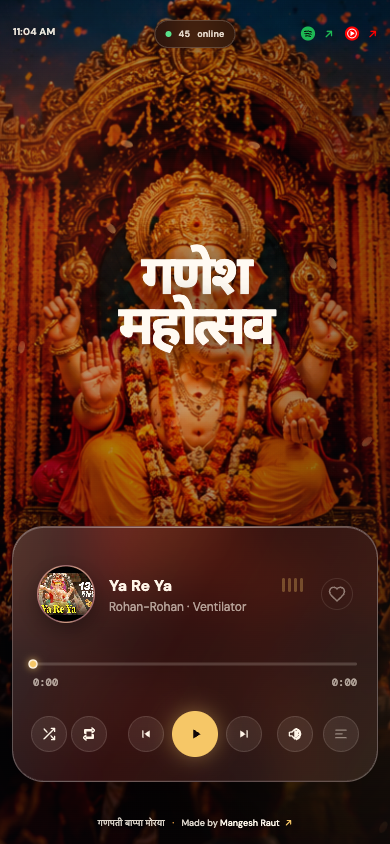
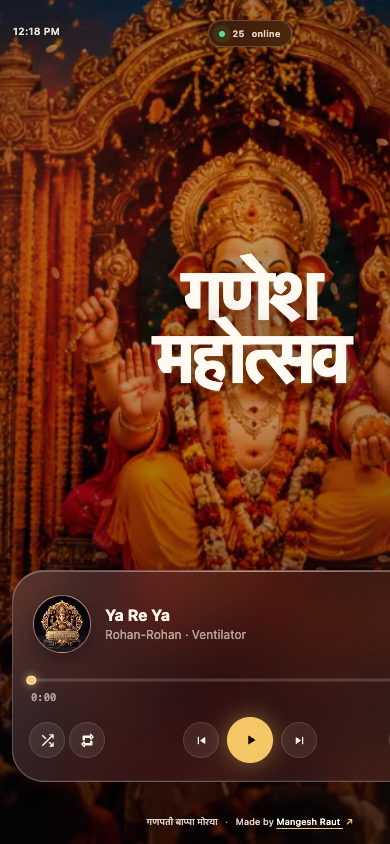
Optimize Lighthouse delivery and player spacing

diff --git a/index.html b/index.html
@@ -18,12 +18,14 @@
   <meta name="twitter:description" content="Marathi festival nostalgia, dhol-tasha energy, and one beautifully simple radio screen." />
   <meta name="twitter:image" content="https://ganeshai.vercel.app/ganesh%20background.png" />
   <title>GaneshAI · Ganeshotsav Radio · गणपती बाप्पा मोरया</title>
-  <link rel="preconnect" href="https://fonts.googleapis.com" />
-  <link rel="preconnect" href="https://fonts.gstatic.com" crossorigin />
-  <link href="https://fonts.googleapis.com/css2?family=DM+Mono:wght@400;500&family=DM+Sans:wght@400;500;600;700&family=Libre+Baskerville:wght@400;700&family=Noto+Sans+Devanagari:wght@500;700;800&family=Yatra+One&display=swap" rel="stylesheet" />
-  <link rel="icon" type="image/png" href="ganesh%20logo.png" />
-  <link rel="apple-touch-icon" href="ganesh%20logo.png" />
-  <link rel="stylesheet" href="styles.css" />
+  <link rel="preload" href="ganesh-background-mobile.webp" as="image" type="image/webp" fetchpriority="high" media="(max-width: 560px)" />
+  <link rel="preload" href="ganesh-background.webp" as="image" type="image/webp" fetchpriority="high" media="(min-width: 561px)" />
+  <link rel="icon" type="image/png" sizes="48x48" href="favicon.png" />
+  <link rel="apple-touch-icon" sizes="192x192" href="icon-192.png" />
+  <style>:root{--ink:#100607;--ink-soft:#1c0a0d;--wine:#361017;--saffron:#f1a343;--marigold:#f6c767;--rose:#df715e;--cream:#fff5e8;--muted:rgba(255, 245, 232, 0.62);--faint:rgba(255, 245, 232, 0.38);--line:rgba(255, 245, 232, 0.16);--glass:rgba(16, 6, 8, 0.48);--display:Georgia,"Times New Roman",serif;--sans:system-ui,-apple-system,BlinkMacSystemFont,"Segoe UI",sans-serif;--mono:ui-monospace,"SFMono-Regular",Consolas,monospace;--dev:"Noto Sans Devanagari","Kohinoor Devanagari",Mangal,var(--sans);--ease:cubic-bezier(0.22, 1, 0.36, 1)}*,::after,::before{box-sizing:border-box}body,html{min-height:100%;margin:0}html{background:var(--ink)}body{position:relative;isolation:isolate;min-height:100dvh;overflow-x:hidden;color:var(--cream);background:var(--ink);font-family:var(--sans)}a,button{color:inherit;font:inherit}button{border:0}a{text-decoration:none}img{display:block;max-width:100%}.cover,.scrub,a,button{touch-action:manipulation}[hidden]{display:none!important}.backdrop,.backdrop>*{position:fixed;inset:0}.backdrop{z-index:-1;overflow:hidden;background:radial-gradient(60% 60%at 50% 28%,rgba(163,55,36,.75),transparent 72%),linear-gradient(145deg,#3b121a 0,#1a080d 55%,#080304 100%)}.backdrop-photo{inset:-4%;background-image:url(ganesh-background.webp);background-position:center 41%;background-size:cover;filter:saturate(1.14) contrast(1.06);opacity:.72;transform:scale(1.04);animation:18s ease-in-out infinite alternate photo-breathe}@keyframes photo-breathe{from{transform:scale(1.04) translate3d(0,0,0)}to{transform:scale(1.08) translate3d(0,-.5%,0)}}.backdrop-wash{background:linear-gradient(180deg,rgba(7,2,3,.68) 0,rgba(15,4,6,.08) 30%,rgba(8,2,4,.64) 100%),linear-gradient(90deg,rgba(12,3,6,.72) 0,rgba(85,19,20,.08) 44%,rgba(7,2,3,.78) 100%)}.backdrop-glow{inset:auto;width:min(42vw,620px);height:min(42vw,620px);border-radius:50%;filter:blur(80px);opacity:.36;animation:glow-drift 14s var(--ease) infinite alternate}.glow-left{top:12%;left:-14%;background:#d7522d}.glow-right{right:-16%;bottom:4%;background:#f0a03a;opacity:.2;animation-delay:-6s}.backdrop-rays{inset:-20%;background:repeating-conic-gradient(from 2deg at 50% 42%,rgba(255,210,120,.045) 0deg 7deg,transparent 7deg 16deg);mask-image:radial-gradient(ellipse at 50% 42%,#000 0%,transparent 58%);opacity:.82;animation:130s linear infinite rays-turn}@keyframes rays-turn{to{transform:rotate(360deg)}}.grain{opacity:.12;background:repeating-linear-gradient(0deg,rgba(255,255,255,.05)0 1px,transparent 1px 4px),repeating-linear-gradient(90deg,rgba(0,0,0,.08)0 1px,transparent 1px 5px);mix-blend-mode:soft-light}.petals{overflow:hidden}.footer,.stage,.topbar{position:relative;z-index:1}.topbar{display:grid;grid-template-columns:1fr auto 1fr;align-items:start;width:100%;max-width:1440px;margin:0 auto;padding:max(24px,env(safe-area-inset-top)) clamp(18px,4vw,56px) 0}.presence{display:inline-flex;align-items:center;gap:7px;padding:7px 12px;border:1px solid rgba(255,245,232,.15);border-radius:999px;background:rgba(8,2,4,.35);box-shadow:0 8px 24px rgba(0,0,0,.14);backdrop-filter:blur(16px);color:rgba(255,245,232,.86);font-size:10px;font-weight:600;letter-spacing:.02em;white-space:nowrap}.presence-dot{flex:0 0 auto;border-radius:50%;background:#59e18b}.presence-dot{width:6px;height:6px;box-shadow:0 0 0 0 rgba(89,225,139,.55);animation:2.2s ease-out infinite online-pulse}@keyframes online-pulse{70%{box-shadow:0 0 0 7px rgba(89,225,139,0)}100%{box-shadow:0 0 0 0 rgba(89,225,139,0)}}.stage{display:flex;min-height:100dvh;flex-direction:column;align-items:center;justify-content:space-between;width:100%;padding:clamp(104px,13vh,152px) 18px calc(88px + env(safe-area-inset-bottom));gap:clamp(26px,5vh,64px)}.hero{display:flex;max-width:860px;flex:1 1 auto;flex-direction:column;align-items:center;justify-content:center;min-height:300px;padding-top:clamp(12px,2vh,30px);text-align:center}.hero-title{display:flex;flex-direction:column;align-items:center;margin:0;line-height:.82;text-shadow:0 8px 36px rgba(0,0,0,.44)}.player-zone{width:min(100%,640px);margin:0 auto;flex:0 0 auto}.player{position:relative;display:flex;flex-direction:column;gap:8px;padding:14px 20px 16px;overflow:hidden;border:1px solid rgba(255,245,232,.22);border-radius:24px;background:rgba(18,7,9,.8);box-shadow:0 24px 70px rgba(0,0,0,.55),inset 0 1px 0 rgba(255,245,232,.2);backdrop-filter:blur(24px) saturate(135%)}.player-topline{position:absolute;top:0;left:10%;width:80%;height:1px;background:linear-gradient(90deg,transparent,rgba(255,245,232,.44),transparent)}.player-main{display:flex;align-items:center;gap:16px;width:100%}.cover-shell{position:relative;width:54px;height:54px;flex:0 0 auto}.cover-halo{position:absolute;inset:-6px;border:1px solid rgba(246,199,103,.35);border-radius:50%;opacity:.8;transform:rotate(32deg)}.cover-halo::after{position:absolute;top:-2px;left:50%;width:4px;height:4px;border-radius:50%;background:var(--saffron);box-shadow:0 0 8px var(--saffron);content:""}.cover{position:relative;z-index:1;width:54px;height:54px;object-fit:cover;border:1.5px solid rgba(255,245,232,.3);border-radius:50%;background:radial-gradient(circle at 50% 35%,#f4bc63,#7a1e22 72%,#1b080b);box-shadow:0 4px 14px rgba(0,0,0,.45)}.track-info{flex:1;min-width:0;display:flex;flex-direction:column;gap:3px}.title-row{display:flex;align-items:center;gap:8px}.title-row .title{font-size:clamp(15px,1.8vw,17px);font-weight:700;color:var(--cream);margin:0;overflow:hidden;text-overflow:ellipsis;white-space:nowrap}.track-info .artist{font-size:12px;color:var(--muted);margin:0;overflow:hidden;text-overflow:ellipsis;white-space:nowrap}.fav-btn{display:grid;place-items:center;width:36px;height:36px;flex:0 0 auto;border-radius:50%;background:rgba(255,245,232,.06);border:1px solid rgba(255,245,232,.1);color:rgba(255,245,232,.5)}.fav-btn svg{width:18px;height:18px}.progress-block{width:100%;display:flex;flex-direction:column;gap:4px}.scrub{position:relative;display:block;width:100%;height:14px;padding:5px 0;outline:0;background:0 0}.scrub .track{position:absolute;top:50%;right:0;left:0;height:3px;overflow:visible;border-radius:99px;background:rgba(255,245,232,.18);transform:translateY(-50%)}.fill{display:block;width:0;height:100%;border-radius:inherit;background:linear-gradient(90deg,var(--saffron),var(--marigold));box-shadow:0 0 10px rgba(241,163,67,.5)}.knob{position:absolute;top:50%;left:0;width:9.5px;height:9.5px;border:1.5px solid rgba(255,245,232,.92);border-radius:50%;background:var(--marigold);box-shadow:0 0 8px rgba(246,199,103,.85);transform:translate(-50%,-50%)}.times{display:flex;justify-content:space-between;color:var(--muted);font-family:var(--mono);font-size:10.5px;font-weight:500}.controls{display:flex;align-items:center;justify-content:space-between;width:100%;margin-top:4px}.control-cluster{display:flex;align-items:center;gap:8px}.control-cluster-left{flex:1;justify-content:flex-start}.control-cluster-right{flex:1;justify-content:flex-end;gap:8px}.ctrl{width:36px;height:36px;border-radius:50%;background:rgba(255,245,232,.08);border:1px solid rgba(255,245,232,.12);color:var(--cream);display:grid;place-items:center}.ctrl svg{display:block;width:15px;height:15px;fill:currentColor}.ctrl-quiet svg{fill:none;stroke:currentColor;stroke-linecap:round;stroke-linejoin:round;stroke-width:2.2}.ctrl-play{width:46px;height:46px;background:var(--marigold);border:none;color:var(--ink);box-shadow:0 0 22px rgba(246,199,103,.45)}.ctrl-play svg{width:16px;height:16px}.ctrl-play .icon-play{transform:translateX(1px)}.ctrl-play .icon-pause{display:none}.queue{max-height:min(38vh,300px);margin-top:10px;overflow:auto;border:1px solid rgba(255,245,232,.14);border-radius:20px;background:rgba(12,3,5,.54);box-shadow:0 18px 42px rgba(0,0,0,.28);backdrop-filter:blur(22px) saturate(130%);scrollbar-color:rgba(255,245,232,0.2) transparent;scrollbar-width:thin}.queue-head{display:flex;align-items:end;justify-content:space-between;gap:16px;padding:16px 18px 10px}.queue-head h3{margin:3px 0 0;color:var(--cream);font-family:var(--display);font-size:14px;font-weight:400}.queue-kicker{color:var(--saffron);font-family:var(--mono);font-size:8px;letter-spacing:.12em;text-transform:uppercase}#queueCount{color:var(--faint);font-family:var(--mono);font-size:8px;white-space:nowrap}.queue-list{display:grid;grid-template-columns:repeat(2,minmax(0,1fr));gap:4px;margin:0;padding:0 10px 12px;list-style:none}.footer{position:fixed;right:0;bottom:max(14px,env(safe-area-inset-bottom));left:0;display:flex;align-items:center;justify-content:space-between;gap:16px;width:100%;padding:0 clamp(18px,4vw,56px)}.footer p{margin:0;color:rgba(255,245,232,.52);font-size:10px;font-weight:500}.footer strong{color:rgba(255,245,232,.85);font-weight:700}.footer-mantra{font-family:var(--dev);text-align:right}.footer-mantra span{display:inline-block;margin:0 5px;color:var(--saffron)}.yt-host{position:fixed;top:-2px;left:-2px;z-index:-2;width:1px;height:1px;overflow:hidden;opacity:0}.toast{position:fixed;right:50%;bottom:max(58px,calc(48px + env(safe-area-inset-bottom)));z-index:5;max-width:min(calc(100vw - 36px),420px);padding:9px 13px;border:1px solid rgba(255,245,232,.18);border-radius:999px;background:rgba(18,5,8,.82);box-shadow:0 10px 24px rgba(0,0,0,.32);color:var(--cream);font-size:10px;opacity:0;transform:translate(50%,8px);backdrop-filter:blur(14px);white-space:nowrap}@media (max-width:760px){.topbar{grid-template-columns:1fr auto}.presence{justify-self:end}.stage{padding-top:100px}.hero{min-height:270px}.player-main{gap:12px}.queue-list{grid-template-columns:1fr}}@media (max-width:560px){.topbar{padding-right:16px;padding-left:16px}.hero{min-height:240px;padding-top:16px}.player{border-radius:21px}.player-main{grid-template-columns:auto minmax(0,1fr);gap:10px 12px;padding:14px 13px 13px}.controls{display:grid;grid-column:1/-1;grid-template-columns:minmax(0,1fr) auto minmax(0,1fr);justify-content:normal;width:100%;gap:10px;padding-top:1px}.control-cluster{display:flex;align-items:center;gap:4px}.ctrl{width:36px;height:36px}.ctrl-play{width:44px;height:44px}.footer{bottom:max(10px,env(safe-area-inset-bottom));padding-right:14px;padding-left:14px}.footer p{font-size:8px}.footer-note{display:none}.footer-mantra{width:100%;text-align:center}.toast{bottom:max(88px,calc(80px + env(safe-area-inset-bottom)))}}@media (prefers-reduced-motion:reduce){*,::after,::before{scroll-behavior:auto!important;animation-duration:0s!important;animation-iteration-count:1!important}}:root{--display:var(--dev)}body{background:#101722}.backdrop-photo{background-image:url(ganesh-background.webp);background-size:cover;background-position:center center;filter:saturate(1.08) contrast(1.04) brightness(.78);opacity:1}.backdrop-wash{background:linear-gradient(180deg,rgba(4,11,19,.26) 0,rgba(19,4,7,.02) 42%,rgba(7,3,6,.58) 100%),linear-gradient(90deg,rgba(5,10,18,.22) 0,rgba(75,19,15,.01) 48%,rgba(5,7,13,.34) 100%)}.backdrop-rays{opacity:.28}.topbar{position:fixed;top:0;right:0;left:0;z-index:3;grid-template-columns:1fr auto 1fr;max-width:none;padding:max(20px,env(safe-area-inset-top)) clamp(18px,3vw,46px) 0}.clock,.source-link{color:rgba(255,248,236,.9);font-size:clamp(11px,1.15vw,17px);font-weight:600;text-shadow:0 2px 10px rgba(0,0,0,.38)}.source-links{display:inline-flex;align-items:center;justify-self:end;gap:clamp(10px,1.8vw,26px)}.clock{justify-self:start;padding-top:8px;letter-spacing:.02em}.source-link{display:inline-flex;align-items:center;gap:8px;padding-top:8px}.source-icon{width:1.15em;height:1.15em;flex:0 0 auto;fill:none;stroke:currentColor;stroke-linecap:round;stroke-linejoin:round;stroke-width:1.8}.source-icon-youtube path{fill:currentColor;stroke:none}.source-arrow,.source-label{color:var(--marigold);font-size:1.1em}.source-label{color:rgba(255,248,236,.9)}.presence{padding:8px 13px;border-color:rgba(255,245,232,.2);background:rgba(8,8,14,.42);font-size:11px}.stage{min-height:100dvh;padding:clamp(86px,9vh,126px) 18px calc(66px + env(safe-area-inset-bottom));gap:0}.hero{width:min(100%,1240px);min-height:0;justify-content:center;padding:clamp(18px,5vh,60px) 0 clamp(20px,4vh,44px)}.hero-title{position:relative;width:min(100%,900px);height:auto;overflow:visible;clip:auto;clip-path:none;line-height:.86;text-shadow:none;white-space:normal}.sr-only{position:absolute;width:1px;height:1px;padding:0;margin:-1px;overflow:hidden;clip:rect(0,0,0,0);white-space:nowrap;border:0}.hero-title-marathi{display:block;color:#fffaf2;font-family:var(--dev);font-size:clamp(4.5rem,10vw,10rem);font-weight:800;letter-spacing:-.085em;line-height:.86;text-shadow:0 8px 34px rgba(0,0,0,.62),0 1px 0 rgba(255,255,255,.12)}.player-zone{width:min(100%,720px);margin:0 auto}.player{border-color:rgba(255,224,202,.27);border-radius:26px;background:rgba(68,28,27,.72);box-shadow:0 18px 52px rgba(0,0,0,.42),inset 0 1px 0 rgba(255,244,231,.18);backdrop-filter:blur(18px) saturate(135%)}.player-main{grid-template-columns:auto minmax(0,1fr) auto;gap:16px;min-height:96px;padding:14px 22px}.cover-halo{display:none}.cover,.cover-shell{width:54px;height:54px}.cover{border-color:rgba(255,255,255,.35);box-shadow:0 5px 18px rgba(0,0,0,.42),inset 0 0 0 3px rgba(0,0,0,.18)}.title{font-size:clamp(13px,1.45vw,18px)}.artist{font-size:clamp(10px,1vw,13px)}.progress-block{margin-top:9px}.controls{gap:3px}.ctrl-link{color:rgba(255,245,232,.45)}.ctrl-play{width:42px;height:42px}.footer{bottom:max(15px,env(safe-area-inset-bottom))}.footer p{color:rgba(255,248,236,.84);font-size:clamp(9px,.85vw,13px);text-shadow:0 2px 10px rgba(0,0,0,.46)}.footer-mantra{font-family:var(--sans)}.footer .maker-link{position:relative;z-index:1;color:#fff8ec;text-decoration:underline;text-decoration-color:var(--marigold);text-decoration-thickness:1px;text-underline-offset:3px}.footer .maker-link span{display:inline-block;margin:0 0 0 3px;color:var(--marigold)}@media (max-width:760px){.topbar{grid-template-columns:1fr auto 1fr}.stage{padding-top:88px}.hero{padding-top:18px}.player-main{gap:12px;padding-right:17px;padding-left:17px}}@media (max-width:560px){.backdrop-photo{background-image:url(ganesh-background.webp);background-size:cover;background-position:center center}.backdrop-wash{background:linear-gradient(180deg,rgba(4,11,19,.22) 0,rgba(19,4,7,.02) 42%,rgba(7,3,6,.58) 100%),linear-gradient(90deg,rgba(5,10,18,.22) 0,rgba(75,19,15,.01) 48%,rgba(5,7,13,.34) 100%)}.topbar{padding-right:13px;padding-left:13px}.clock,.source-link{padding-top:5px;font-size:10px}.source-links{gap:10px}.source-label{display:none}.source-icon{width:17px;height:17px}.presence{padding:7px 10px;font-size:9px}.stage{padding:80px 12px calc(62px + env(safe-area-inset-bottom))}.hero{padding-top:10px;padding-bottom:26px}.hero-title{line-height:.82}.hero-title{width:min(100%,370px)}.hero-title-marathi{font-size:clamp(3.2rem,17vw,5rem);letter-spacing:-.075em;line-height:.88}.player{border-radius:22px}.player-main{grid-template-columns:auto minmax(0,1fr);gap:10px 12px;padding:13px 14px 14px}.controls{grid-column:1/-1;justify-content:center;gap:4px;padding-top:1px}.ctrl{width:34px;height:34px}.ctrl-play{width:42px;height:42px}.footer-note{display:none}.footer-mantra{width:100%;text-align:center}}.backdrop-photo{background-position:center 44%;filter:saturate(1.08) contrast(1.04) brightness(.84)}.source-link{font-size:clamp(10px,.92vw,14px)}.source-link-spotify{color:#1db954}.source-link-youtube{color:red}.source-link .source-arrow,.source-link .source-label{color:currentColor}.source-icon-spotify .source-icon-circle{fill:#1db954;stroke:none}.source-icon-spotify .source-icon-wave{fill:none;stroke:#07140c;stroke-width:1.55}.source-icon-youtube .source-icon-circle{fill:#ff0000;stroke:none}.source-icon-youtube .source-icon-ring{fill:none;stroke:#ffffff;stroke-width:1.45}.source-icon-youtube .source-icon-play{fill:#ffffff;stroke:none}.hero{padding-bottom:clamp(26px,5vh,56px)}.hero-title{width:min(100%,760px);transform:translateY(1vh)}.hero-title-marathi{font-size:clamp(3.2rem,7.5vw,7rem);font-weight:700;letter-spacing:-.08em;line-height:.9}.player-zone{width:min(100%,640px)}.player{border-color:rgba(255,255,255,.25);border-radius:38px;background:linear-gradient(120deg,rgba(255,255,255,.16),rgba(62,26,30,.42) 45%,rgba(255,255,255,.08)),rgba(24,12,17,.3);box-shadow:0 24px 70px rgba(0,0,0,.38),inset 0 1px 0 rgba(255,255,255,.24),inset 0-1px 0 rgba(255,255,255,.06);backdrop-filter:blur(28px) saturate(145%)}.player-main{gap:13px;min-height:88px;padding:10px 16px}.cover,.cover-shell{width:50px;height:50px}.cover{box-shadow:0 8px 22px rgba(0,0,0,.38),inset 0 0 0 3px rgba(0,0,0,.16)}.title{font-size:clamp(12px,1.05vw,16px)}.artist{font-size:clamp(9px,.8vw,12px)}.controls{gap:1px}.ctrl{width:30px;height:30px}.ctrl-play{width:38px;height:38px}.queue{margin-top:12px;border-color:rgba(255,255,255,.22);border-radius:30px;background:linear-gradient(135deg,rgba(255,255,255,.12),rgba(32,15,20,.36)),rgba(12,8,13,.28);box-shadow:0 22px 60px rgba(0,0,0,.34),inset 0 1px 0 rgba(255,255,255,.16);backdrop-filter:blur(28px) saturate(145%)}@media (max-width:560px){.backdrop-photo{background-position:center 42%}.hero{padding-bottom:30px}.hero-title{width:min(100%,340px);transform:translateY(1.5vh)}.hero-title-marathi{font-size:clamp(2.6rem,14vw,4.3rem);letter-spacing:-.07em;line-height:.92}.player-zone{width:100%}.player{border-radius:30px}.player-main{gap:10px 12px;min-height:0;padding:12px 14px 13px}.cover,.cover-shell{width:48px;height:48px}.ctrl{width:32px;height:32px}.ctrl-play{width:42px;height:42px}}.title-row{display:flex;align-items:center;gap:10px}.title-row .title{flex:1;min-width:0;margin:0;overflow:hidden;text-overflow:ellipsis;white-space:nowrap}.fav-btn{display:grid;place-items:center;width:32px;height:32px;padding:0;border-radius:50%;background:0 0;color:rgba(255,245,232,.45)}.fav-btn svg{width:18px;height:18px;fill:none;stroke:currentColor;stroke-width:2}.equalizer{display:inline-flex;align-items:flex-end;gap:3px;height:14px;padding:0 4px}.eq-bar{width:3px;height:100%;border-radius:2px;background:var(--marigold);opacity:.3}#repeat{position:relative}.repeat-badge{position:absolute;top:-2px;right:-2px;width:13px;height:13px;border-radius:50%;background:var(--saffron);color:var(--ink);font-size:9px;font-weight:700;line-height:13px;text-align:center}.volume-control{display:inline-flex;align-items:center;gap:6px}.volume-control .icon-vol-mute{display:none}.volume-slider{width:64px;height:4px;border-radius:2px;background:rgba(255,245,232,.2);accent-color:var(--marigold)}.queue-controls{display:flex;flex-direction:column;gap:10px;padding:0 16px 12px;border-bottom:1px solid var(--line)}.queue-search-wrap{position:relative;display:flex;align-items:center}.queue-search-wrap .search-icon{position:absolute;left:10px;width:16px;height:16px;fill:var(--muted)}.queue-search{width:100%;padding:8px 30px 8px 34px;border:1px solid rgba(255,245,232,.16);border-radius:8px;background:rgba(0,0,0,.25);color:var(--cream);font-size:13px;outline:0}.search-clear{position:absolute;right:8px;padding:0 4px;border:0;background:0 0;color:var(--muted);font-size:16px}.queue-filter-tabs{display:flex;gap:8px}.filter-tab{flex:1;padding:6px 10px;border:1px solid rgba(255,245,232,.12);border-radius:6px;background:0 0;color:var(--muted);font-size:12px;font-weight:500}.filter-tab.is-active{border-color:rgba(246,199,103,.35);background:rgba(246,199,103,.12);color:var(--marigold)}.fav-badge{display:inline-block;margin-left:3px;padding:1px 5px;border-radius:999px;background:rgba(223,113,94,.3);color:var(--cream);font-size:10px}.queue-empty{padding:24px;color:var(--muted);font-size:13px;text-align:center}@media (max-width:640px){.player{padding:14px 16px 16px;border-radius:22px}.volume-slider{width:48px}.controls{gap:6px}.ctrl{width:34px;height:34px}.ctrl-play{width:42px;height:42px}}.player{gap:12px;padding:18px 22px 20px}.player-main{display:grid;grid-template-columns:auto minmax(0,1fr) auto;gap:16px;min-height:92px;padding:12px 10px}.cover,.cover-shell{width:58px;height:58px}.controls{display:flex;align-items:center;justify-content:space-between;gap:8px;margin-top:4px}.control-cluster-left,.control-cluster-right{flex:0 0 auto}.control-cluster-center{flex:0 0 auto;gap:10px}.ctrl{width:36px;height:36px}.ctrl-play{width:46px;height:46px}@media (max-width:560px){.player{gap:16px;padding:22px 18px 24px;border-radius:32px}.player-main{gap:14px;min-height:88px;padding:16px 6px 18px}.cover,.cover-shell{width:58px;height:58px}.title-row .title{font-size:16px}.track-info .artist{font-size:12px}.progress-block{margin-top:0;padding:0 2px}.controls{gap:6px;padding:2px 0 0}.control-cluster{gap:4px}.control-cluster-center{gap:8px}.volume-slider{width:0;margin:0;opacity:0}.ctrl{width:36px;height:36px}.ctrl-play{width:46px;height:46px}}@media (max-width:340px){.player{padding-right:14px;padding-left:14px}.player-main{gap:10px;padding-right:4px;padding-left:4px}.cover,.cover-shell{width:52px;height:52px}.title-row .title{font-size:15px}.track-info .artist{font-size:11px}.controls{gap:4px}.control-cluster{gap:3px}.control-cluster-center{gap:6px}.ctrl{width:32px;height:32px}.ctrl-play{width:42px;height:42px}#openYt{display:none}}.controls{display:grid;grid-template-columns:minmax(0,1fr) auto minmax(0,1fr);align-items:center;justify-content:initial;gap:0}.control-cluster-left,.control-cluster-right{min-width:0;flex:0 1 auto}.control-cluster-left{grid-column:1;justify-content:flex-start}.control-cluster-center{grid-column:2;grid-row:1}.control-cluster-right{grid-column:3;justify-content:flex-end}@media (max-width:560px){#openYt{display:none}.control-cluster-right{gap:4px}}</style>
+  <style>.player{gap:8px;padding:14px 20px 16px}.player-main{min-height:76px;padding:8px}.progress-block{margin-top:0}.controls{margin-top:2px}@media (max-width:560px){.backdrop-photo{background-image:url("ganesh-background-mobile.webp")}.player{gap:10px;padding:16px 16px 18px}.player-main{min-height:72px;padding:8px 4px 10px}}</style>
+  <link rel="preload" href="styles.css" as="style" onload="this.onload=null;this.rel='stylesheet'" />
+  <noscript><link rel="stylesheet" href="styles.css" /></noscript>
   <!-- Vercel Web Analytics: skip the production-only loader during local development. -->
   <script>
     window.va = window.va || function () {
@@ -31,9 +33,18 @@
     };
     if (!/^(localhost|127(?:\.\d+){3}|\[::1\]|::1)$/.test(location.hostname)) {
       const analytics = document.createElement("script");
-      analytics.defer = true;
-      analytics.src = "/_vercel/insights/script.js";
-      document.head.appendChild(analytics);
+      const loadAnalytics = () => {
+        analytics.defer = true;
+        analytics.src = "/_vercel/insights/script.js";
+        document.head.appendChild(analytics);
+      };
+      window.addEventListener("load", () => {
+        if ("requestIdleCallback" in window) {
+          requestIdleCallback(loadAnalytics, { timeout: 2000 });
+        } else {
+          setTimeout(loadAnalytics, 0);
+        }
+      }, { once: true });
     }
   </script>
 </head>
@@ -57,7 +68,7 @@
     </div>
 
     <nav class="source-links" aria-label="Listen on">
-      <a class="source-link source-link-spotify" href="https://open.spotify.com/playlist/1callCuTKdffC9PTur9f3S" target="_blank" rel="noopener noreferrer" aria-label="Open the Ganpati Marathi songs playlist on Spotify" title="Spotify">
+      <a class="source-link source-link-spotify" href="https://open.spotify.com/playlist/1callCuTKdffC9PTur9f3S" target="_blank" rel="noopener noreferrer" aria-label="Spotify — open the Ganpati Marathi songs playlist" title="Spotify">
         <svg class="source-icon source-icon-spotify" viewBox="0 0 24 24" aria-hidden="true">
           <circle class="source-icon-circle" cx="12" cy="12" r="10" />
           <path class="source-icon-wave" d="M7 9.2c3.5-1.1 7.1-.8 10.3.7M7.5 12.4c2.9-.8 5.9-.5 8.8.7M8.4 15.4c2.4-.5 4.9-.2 7.2.8" />
@@ -65,7 +76,7 @@
         <span class="source-label">Spotify</span>
         <span class="source-arrow" aria-hidden="true">↗</span>
       </a>
-      <a class="source-link source-link-youtube" href="https://www.youtube.com/watch?v=HUxGk5gPggg&amp;list=RDHUxGk5gPggg&amp;start_radio=1" target="_blank" rel="noopener noreferrer" aria-label="Open the Ganesh festival radio on YouTube Music" title="YT Music">
+      <a class="source-link source-link-youtube" href="https://www.youtube.com/watch?v=HUxGk5gPggg&amp;list=RDHUxGk5gPggg&amp;start_radio=1" target="_blank" rel="noopener noreferrer" aria-label="YT Music — open the Ganesh festival radio" title="YT Music">
         <svg class="source-icon source-icon-youtube" viewBox="0 0 24 24" aria-hidden="true">
           <circle class="source-icon-circle" cx="12" cy="12" r="10" />
           <circle class="source-icon-ring" cx="12" cy="12" r="6.15" />
@@ -93,7 +104,7 @@
         <div class="player-main">
           <div class="cover-shell">
             <div class="cover-halo" aria-hidden="true"></div>
-            <img id="cover" class="cover" src="ganesh%20logo.png" alt="Ganeshotsav cover art" width="52" height="52" draggable="false" />
+            <img id="cover" class="cover" src="ganesh-logo.webp" alt="Ganeshotsav cover art" width="58" height="58" draggable="false" decoding="async" />
           </div>
 
           <div class="track-info">
@@ -212,7 +223,7 @@
 
   <div class="toast" id="toast" role="status" aria-live="polite" hidden></div>
 
-  <script src="songs.js"></script>
-  <script src="app.js"></script>
+  <script src="songs.js" defer></script>
+  <script src="app.js" defer></script>
 </body>
 </html>

diff --git a/app.js b/app.js
@@ -80,6 +80,7 @@
   // ── State ────────────────────────────────────
   let index = 0;
   let player = null;
+  let playerPromise = null;
   let ready = false;
   let playing = false;
   let shuffleOn = false;
@@ -108,7 +109,7 @@
     const r = s % 60;
     return `${m}:${String(r).padStart(2, "0")}`;
   };
-  const thumb = (id, quality = "hqdefault") =>
+  const thumb = (id, quality = "default") =>
     `https://i.ytimg.com/vi/${id}/${quality}.jpg`;
   const ytWatch = (id) => `https://www.youtube.com/watch?v=${id}`;
 
@@ -273,11 +274,11 @@
   }
 
   // ── UI updates ───────────────────────────────
-  function updateMeta(song) {
+  function updateMeta(song, { updateArtwork = true } = {}) {
     if (!song) return;
     el.title.textContent = song.title;
     el.artist.textContent = song.artist + (song.album ? ` · ${song.album}` : "");
-    el.cover.src = thumb(song.youtubeId);
+    if (updateArtwork) el.cover.src = thumb(song.youtubeId);
     el.cover.alt = `${song.title} cover art`;
     el.openYt.href = ytWatch(song.youtubeId);
     document.title = `${song.title} · GaneshAI Radio`;
@@ -387,6 +388,7 @@
       btn.querySelector(".q-artist").textContent = song.artist;
       btn.addEventListener("click", () => {
         index = playIndex;
+        userStarted = true;
         loadAndPlay(true);
         showToast(`Playing · ${song.title}`);
       });
@@ -458,6 +460,32 @@
     });
   }
 
+  async function ensurePlayer(autoplay = false) {
+    if (ready && player) {
+      if (autoplay) player.playVideo();
+      return player;
+    }
+
+    if (!playerPromise) {
+      setBufferingUI(true);
+      playerPromise = createPlayer().catch((error) => {
+        playerPromise = null;
+        setBufferingUI(false);
+        throw error;
+      });
+    }
+
+    try {
+      const instance = await playerPromise;
+      if (autoplay) instance.playVideo();
+      return instance;
+    } catch (error) {
+      console.error(error);
+      showToast("Could not reach YouTube. Check your connection.");
+      return null;
+    }
+  }
+
   function onStateChange(event) {
     const S = window.YT.PlayerState;
     switch (event.data) {
@@ -507,7 +535,7 @@
 
   function loadAndPlay(autoplay) {
     const song = currentSong();
-    if (!song || !player) return;
+    if (!song) return;
     if (skipTimer) {
       clearTimeout(skipTimer);
       skipTimer = null;
@@ -515,6 +543,11 @@
     setBufferingUI(false);
     updateMeta(song);
     setProgress(0, 0);
+
+    if (!player) {
+      if (autoplay && userStarted) ensurePlayer(true);
+      return;
+    }
 
     const payload = { videoId: song.youtubeId, startSeconds: START_SECONDS };
     try {
@@ -531,7 +564,10 @@
 
   function togglePlay() {
     if (!ready || !player) {
+      userStarted = true;
+      updateMeta(currentSong());
       showToast("Connecting to YouTube…");
+      ensurePlayer(true);
       return;
     }
     userStarted = true;
@@ -799,21 +835,20 @@
   async function init() {
     updateClock();
     setInterval(updateClock, 60_000);
-    spawnPetals();
-    fakePresence();
     reshuffle(false);
     index = 0;
-    buildQueue();
-    updateMeta(currentSong());
+    updateMeta(currentSong(), { updateArtwork: false });
     bind();
 
-    try {
-      await createPlayer();
-      showToast("YouTube ready · tap play · गणपती बाप्पा मोरया", 3200);
-    } catch (err) {
-      console.error(err);
-      showToast("Could not reach YouTube. Check your connection.");
-    }
+    window.addEventListener("load", () => {
+      setTimeout(() => {
+        spawnPetals();
+        fakePresence();
+        buildQueue();
+      }, 2200);
+    }, { once: true });
+
+    /* YouTube is intentionally loaded on first interaction to keep startup fast. */
   }
 
   if (document.readyState === "loading") {

diff --git a/styles.css b/styles.css
@@ -10,10 +10,10 @@
   --faint: rgba(255, 245, 232, 0.38);
   --line: rgba(255, 245, 232, 0.16);
   --glass: rgba(16, 6, 8, 0.48);
-  --display: "Libre Baskerville", Georgia, serif;
-  --sans: "DM Sans", system-ui, sans-serif;
-  --mono: "DM Mono", ui-monospace, monospace;
-  --dev: "Noto Sans Devanagari", "DM Sans", sans-serif;
+  --display: Georgia, "Times New Roman", serif;
+  --sans: system-ui, -apple-system, BlinkMacSystemFont, "Segoe UI", sans-serif;
+  --mono: ui-monospace, "SFMono-Regular", Consolas, monospace;
+  --dev: "Noto Sans Devanagari", "Kohinoor Devanagari", Mangal, var(--sans);
   --ease: cubic-bezier(0.22, 1, 0.36, 1);
 }
 
@@ -100,7 +100,7 @@ a,
 
 .backdrop-photo {
   inset: -4%;
-  background-image: url("https://images.unsplash.com/photo-1598188752015-ea786296f571?auto=format&fit=crop&w=2400&q=88");
+  background-image: url("ganesh-background.webp");
   background-position: center 41%;
   background-size: cover;
   filter: saturate(1.14) contrast(1.06);
@@ -1258,7 +1258,7 @@ body.is-playing .equalizer .eq-bar:nth-child(4) { animation-duration: 0.8s; anim
 /* ── Screenshot-led festival composition ───── */
 
 :root {
-  --display: "Yatra One", "Noto Sans Devanagari", sans-serif;
+  --display: var(--dev);
 }
 
 body {
@@ -1266,7 +1266,7 @@ body {
 }
 
 .backdrop-photo {
-  background-image: url("ganesh background.png");
+  background-image: url("ganesh-background.webp");
   background-size: cover;
   background-position: center center;
   filter: saturate(1.08) contrast(1.04) brightness(0.78);
@@ -1533,6 +1533,10 @@ body {
   z-index: 1;
   color: #fff8ec;
   pointer-events: auto;
+  text-decoration: underline;
+  text-decoration-color: var(--marigold);
+  text-decoration-thickness: 1px;
+  text-underline-offset: 3px;
   transition: color 160ms ease, opacity 160ms ease;
 }
 
@@ -1574,7 +1578,7 @@ body {
 
 @media (max-width: 560px) {
   .backdrop-photo {
-    background-image: url("ganesh background.png");
+    background-image: url("ganesh-background-mobile.webp");
     background-size: cover;
     background-position: center center;
   }
@@ -2342,5 +2346,36 @@ body.queue-open .footer {
 
   .control-cluster-right {
     gap: 4px;
+  }
+}
+
+/* Keep the radio card low-profile without shrinking its touch targets. */
+.player {
+  gap: 8px;
+  padding: 14px 20px 16px;
+}
+
+.player-main {
+  min-height: 76px;
+  padding: 8px;
+}
+
+.progress-block {
+  margin-top: 0;
+}
+
+.controls {
+  margin-top: 2px;
+}
+
+@media (max-width: 560px) {
+  .player {
+    gap: 10px;
+    padding: 16px 16px 18px;
+  }
+
+  .player-main {
+    min-height: 72px;
+    padding: 8px 4px 10px;
   }
 }

diff --git a/CHANGELOG.md b/CHANGELOG.md
@@ -2,6 +2,24 @@
 
 All notable project milestones are recorded here. Dates use the India Standard Time release context for the 2026 build.
 
+## [2026.08.12] — Lighthouse and delivery optimization
+
+### Improved
+
+- Converted the full-screen source artwork to responsive desktop and portrait WebP assets, reducing mobile background delivery from roughly 2.4 MB to about 64 KB.
+- Added purpose-sized favicon and touch icons instead of downloading the multi-megabyte source logo during startup.
+- Deferred the YouTube IFrame API and player until the listener presses play, keeping third-party scripts, cookies, and ad resources out of the initial render.
+- Removed render-blocking remote font requests while preserving the Devanagari-first type hierarchy with system fallbacks.
+- Added an explicit background preload and corrected the source-link accessible names and creator-link treatment.
+- Inlined first-viewport styles, deferred the complete stylesheet and decorative queue work, and kept the YouTube thumbnail off the startup path.
+- Reduced excess player-card height while preserving 42–46 px primary controls, centered playback geometry, and comfortable metadata spacing.
+
+### Verified
+
+- Lighthouse mobile reached 99/100/100/100 locally; the only remaining point is synthetic LCP variance, with zero blocking time and zero layout shift.
+- Lighthouse desktop reached 100/100/100/100 locally.
+- Responsive browser checks at 320, 390, 768, 1024, and 1440 px showed no horizontal overflow and a zero-pixel play-button centerline delta.
+
 ## [2026.08.12] — Focused player surface and mobile parity
 
 ### Improved

diff --git a/README.md b/README.md
@@ -111,8 +111,11 @@ Opening `index.html` directly with a `file://` URL is not recommended because br
 | `app.js` | YouTube API integration and player interaction logic |
 | `songs.js` | 30-track Ganeshotsav queue and YouTube metadata |
 | `package.json` / `package-lock.json` | Vercel Web Analytics dependency and reproducible install |
-| `ganesh background.png` | Active full-bleed Ganesh festival background |
-| `ganesh logo.png` | Ganesh logo used for the favicon and touch icon |
+| `ganesh-background.webp` | Optimized full-bleed Ganesh festival background used by the live page |
+| `ganesh-background-mobile.webp` | Portrait crop optimized for narrow screens without changing the composition |
+| `ganesh-logo.webp` | Lightweight initial player artwork before the first YouTube thumbnail loads |
+| `favicon.png`, `icon-192.png`, `icon-512.png` | Properly sized browser, touch, and install icons |
+| `ganesh background.png`, `ganesh logo.png` | Original high-resolution source artwork retained for future exports |
 | `docs/superpowers/` | Design brief and implementation history for the 2026 build |
 | `CHANGELOG.md` | Release-level project history |
 | `docs/home-preview.png` | Desktop README preview captured from the verified home screen |
